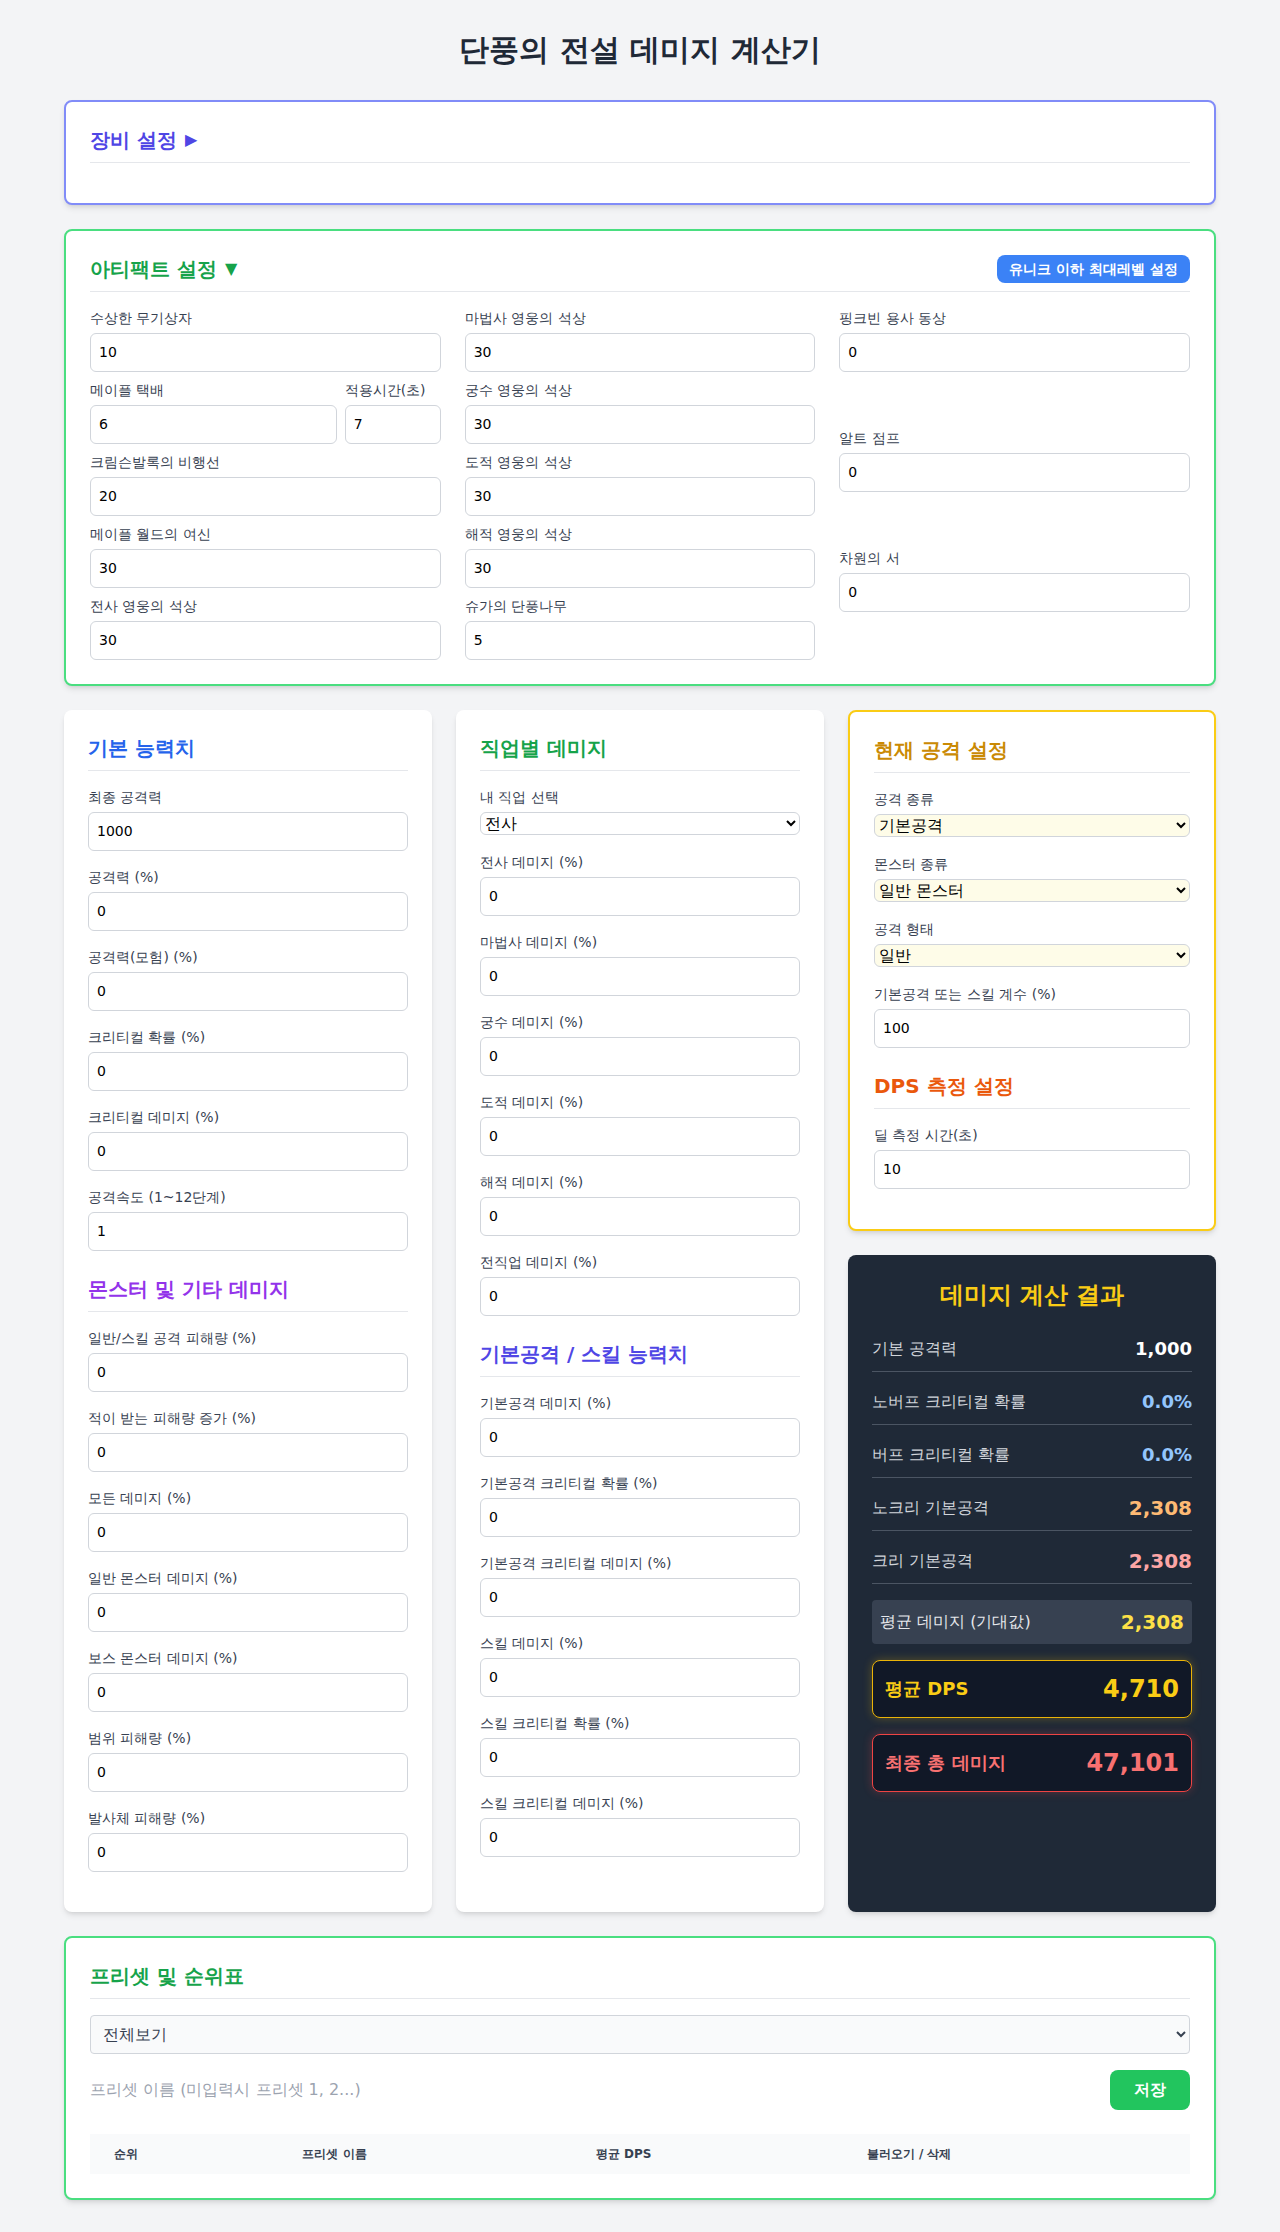
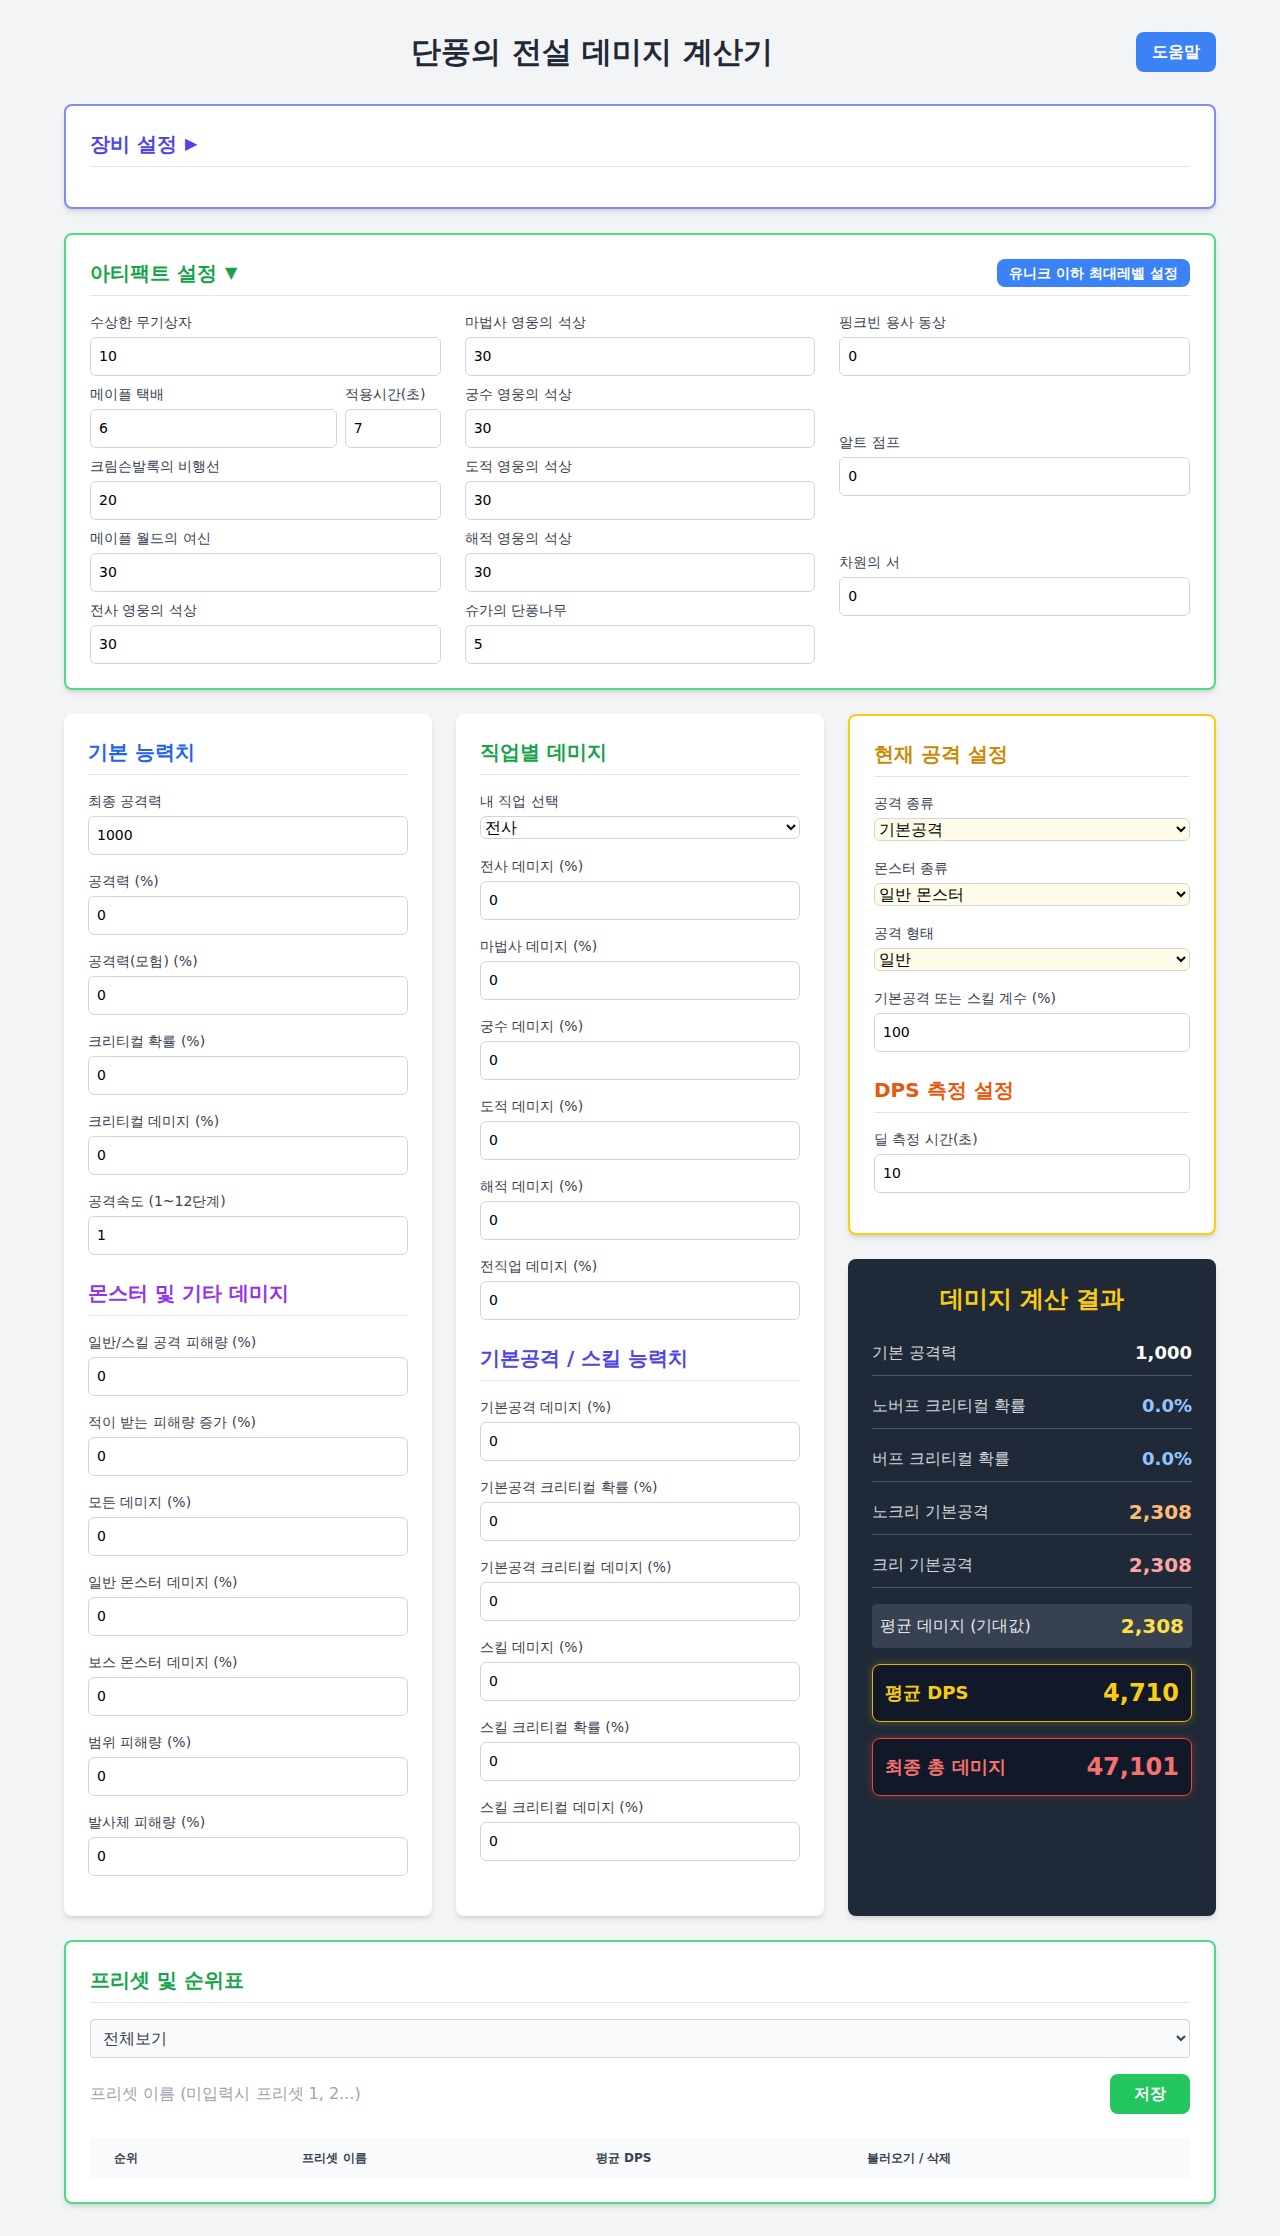
feat: Add help button and usage instructions
Added a "도움말" (Help) button next to the main title in index.html.
When clicked, it toggles a hidden section containing the usage
instructions from 사용방법.txt. Also added a close icon button inside
the help section for better UX.

diff --git a/index.html b/index.html
@@ -35,7 +35,29 @@
 </head>
 <body class="bg-gray-100 min-h-screen p-4 md:p-8 font-sans">
     <div class="max-w-6xl mx-auto">
-        <h1 class="text-3xl font-bold text-center mb-8 text-gray-800">단풍의 전설 데미지 계산기</h1>
+        <div class="flex justify-between items-center mb-8">
+            <h1 class="text-3xl font-bold text-gray-800 flex-grow text-center">단풍의 전설 데미지 계산기</h1>
+            <button onclick="toggleHelp()" class="bg-blue-500 hover:bg-blue-600 text-white font-bold py-2 px-4 rounded-lg transition duration-200 ml-4 whitespace-nowrap">
+                도움말
+            </button>
+        </div>
+
+        <!-- Help Section (Hidden by default) -->
+        <div id="helpSection" class="bg-blue-50 p-6 rounded-lg shadow-md mb-6 border-2 border-blue-400" style="display: none;">
+            <div class="flex justify-between items-center mb-4 border-b pb-2">
+                <h2 class="text-xl font-bold text-blue-700">사용 방법</h2>
+                <button onclick="toggleHelp()" class="text-gray-500 hover:text-gray-700">
+                    <svg class="w-6 h-6" fill="none" stroke="currentColor" viewBox="0 0 24 24" xmlns="http://www.w3.org/2000/svg"><path stroke-linecap="round" stroke-linejoin="round" stroke-width="2" d="M6 18L18 6M6 6l12 12"></path></svg>
+                </button>
+            </div>
+            <div class="text-gray-700 space-y-2">
+                <p>인게임 스텟>세부 능력치에 나와있는 값을 사이트에 기입하세요.</p>
+                <p>장비 설정은 기본적으로는 모두 해제 상태로 하시고, 건드리지 않아도 됩니다.</p>
+                <p>사용 방법 예: 마이스터링(돌파) 모의 착용 테스트 시, 반지 한자리 착용 해제 후의 스텟+전직업 데미지 60된 값으로 설정 후, 반지 슬롯의 돌파/장비 등급/장비 슬롯의 기본 능력치 증가량 설정하시면 됩니다.</p>
+                <p>무릉 연습장에서 테스트하시려면 일반몬스터로 설정해주세요.</p>
+                <p class="text-sm text-red-500 mt-2">* 참고: 무릉 연습장에는 현재 전사만 직업 데미지가 적용되는 오류가 있음. 다른 직업들은 직업/전직업 0으로 적용.</p>
+            </div>
+        </div>
 
         <!-- Equipment Selection UI -->
         <div class="bg-white p-6 rounded-lg shadow-md mb-6 border-2 border-indigo-400">
@@ -416,6 +438,15 @@
     </div>
 
     <script>
+        function toggleHelp() {
+            const section = document.getElementById('helpSection');
+            if (section.style.display === 'none') {
+                section.style.display = 'block';
+            } else {
+                section.style.display = 'none';
+            }
+        }
+
         function toggleSection(sectionId, arrowId, btnGroupId) {
             const section = document.getElementById(sectionId);
             const arrow = document.getElementById(arrowId);
